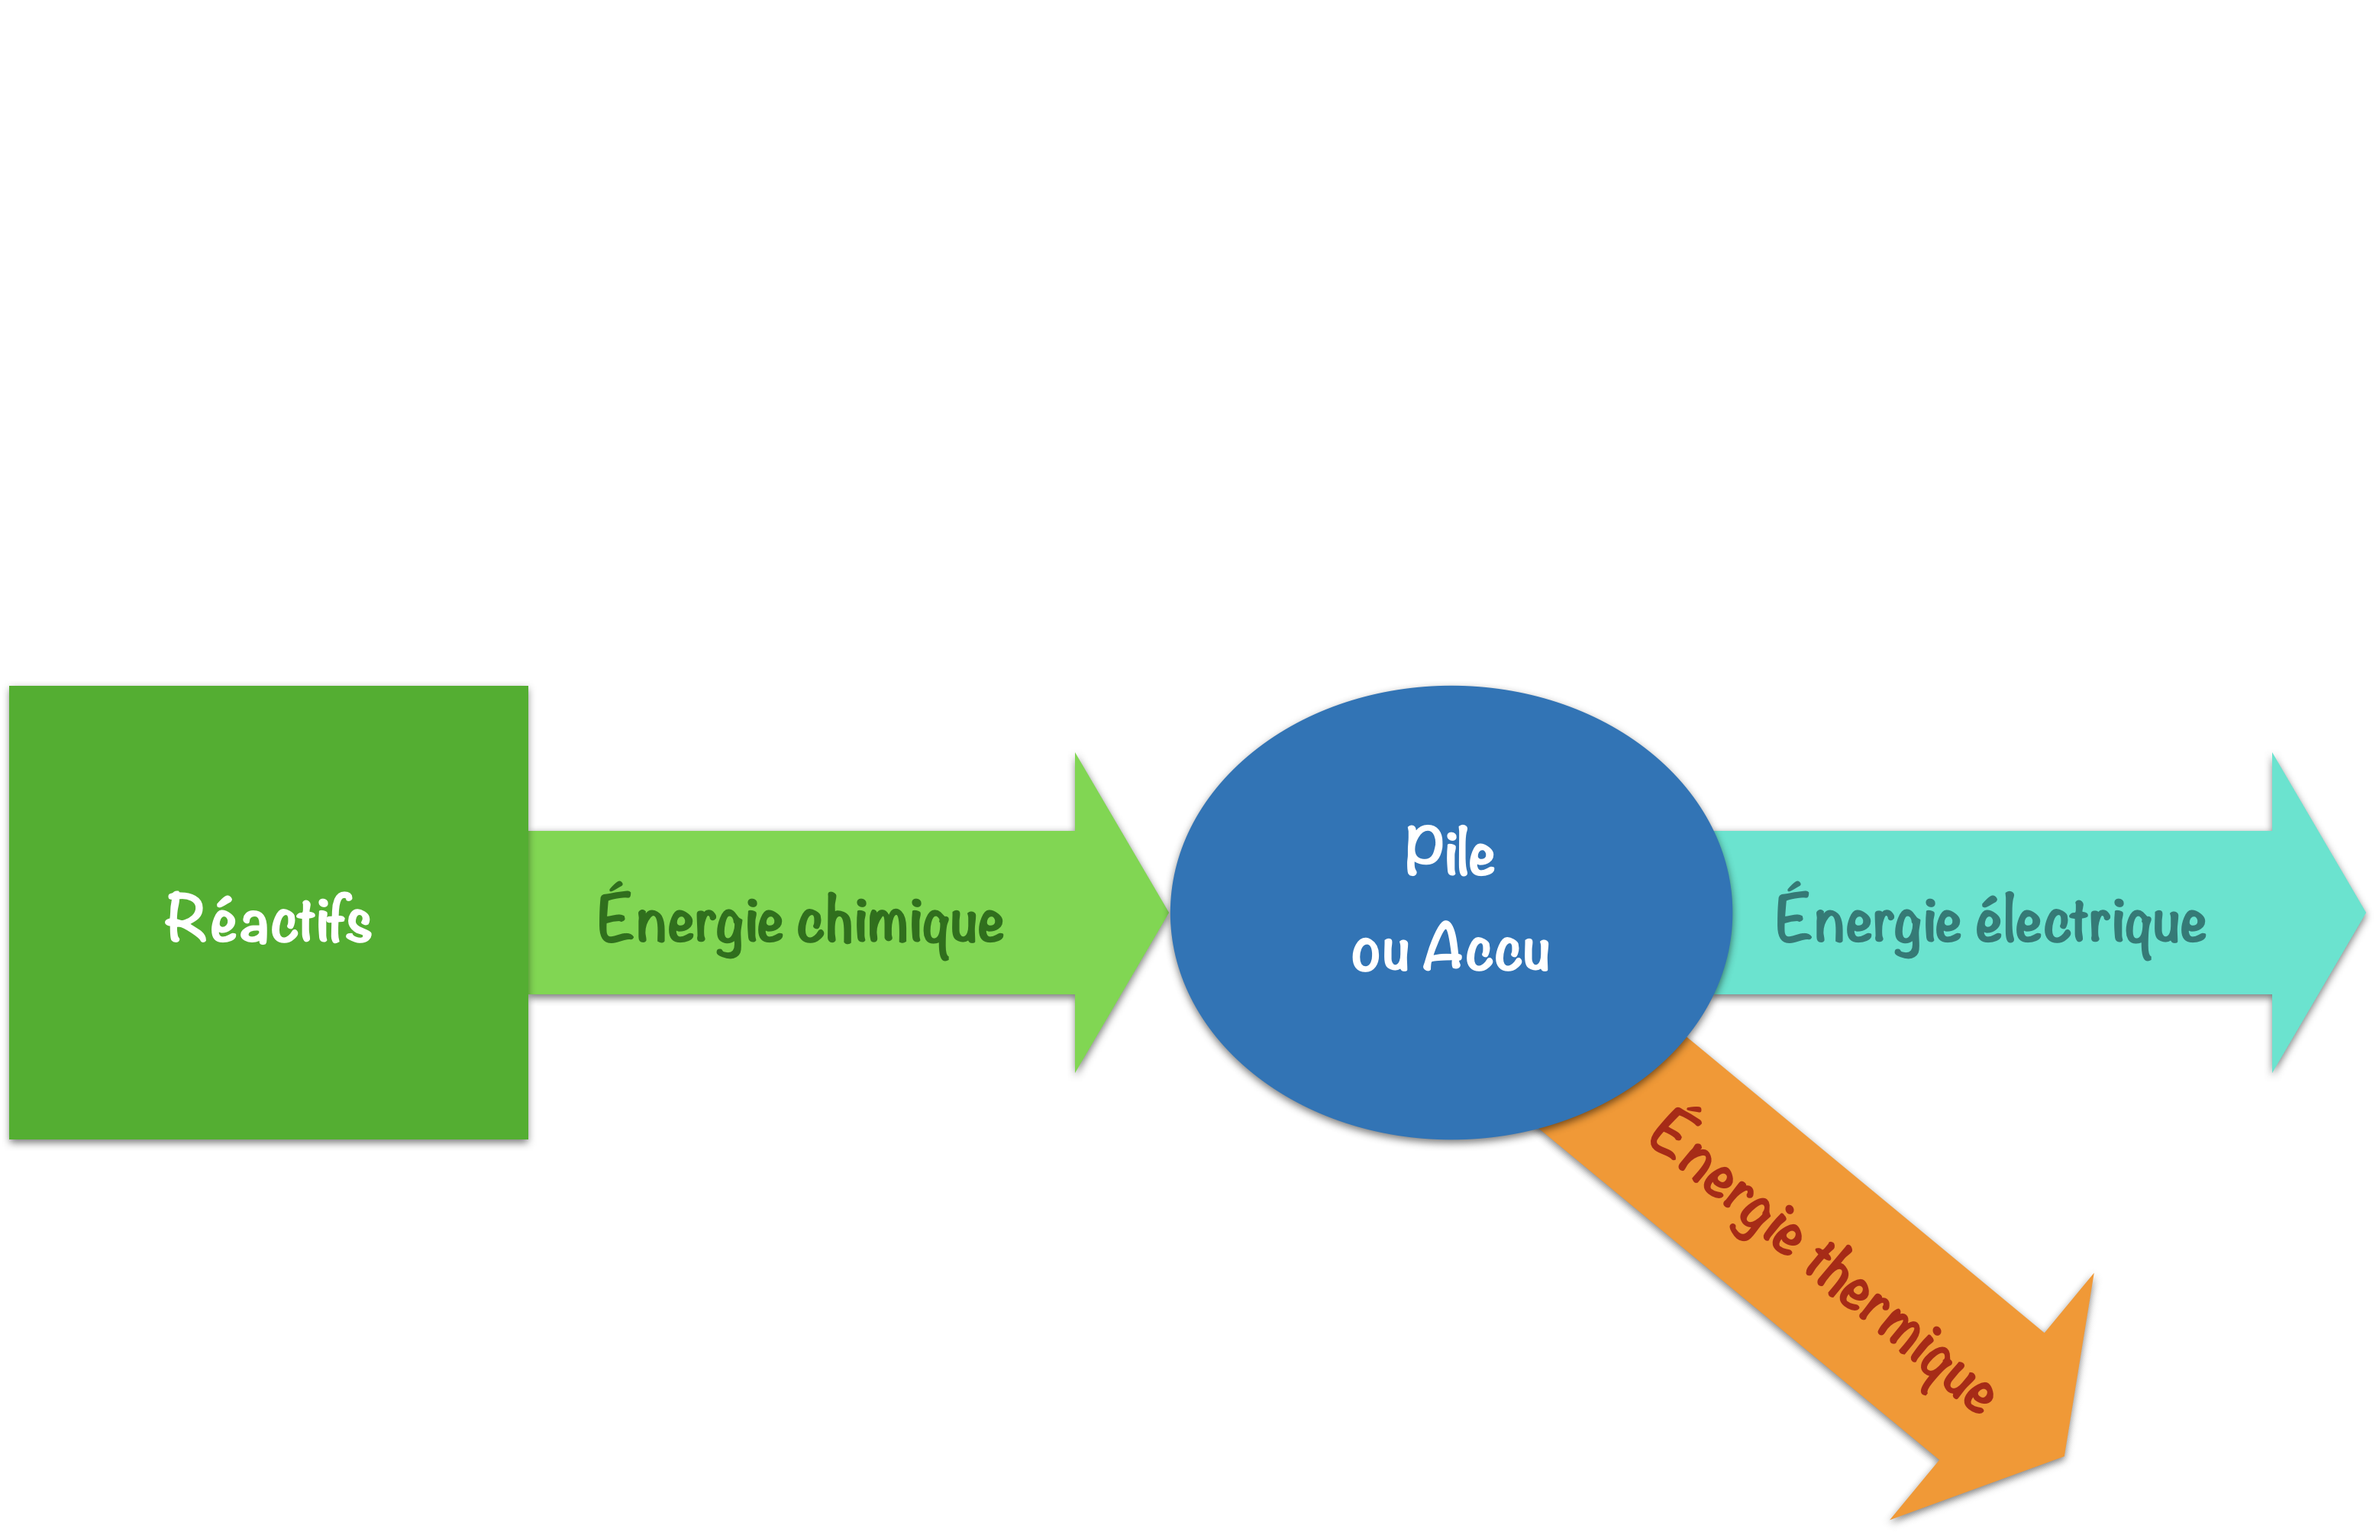
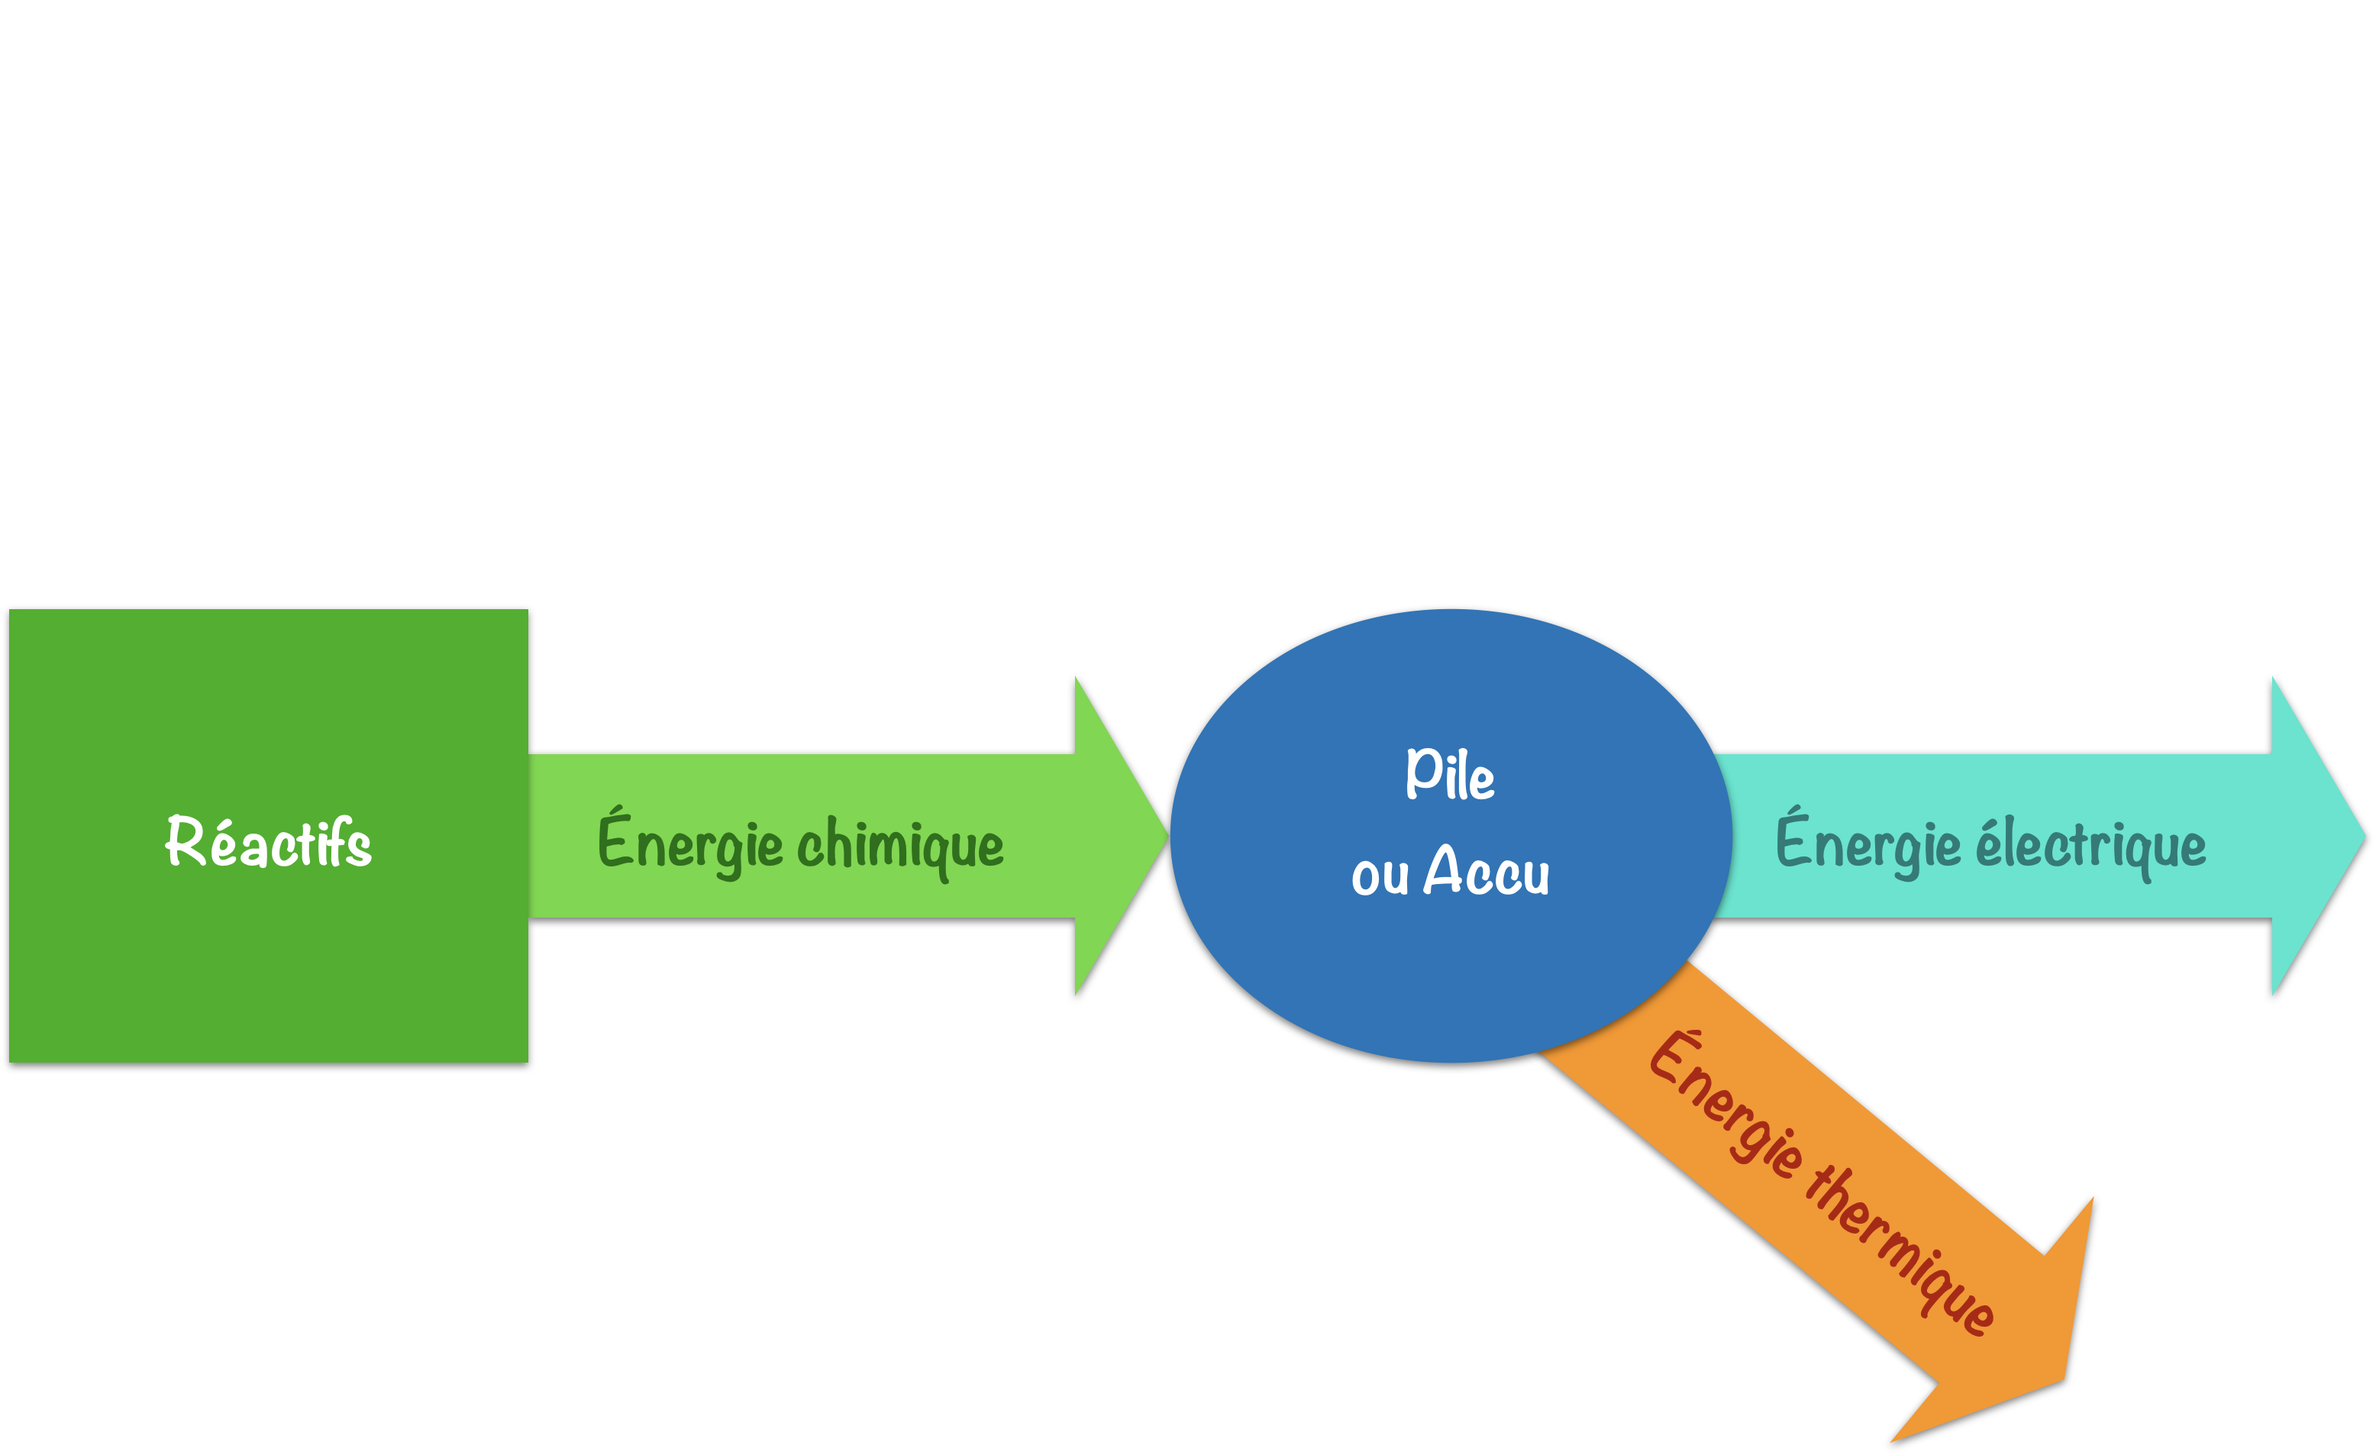
-

diff --git a/tsti/piles/index.html b/tsti/piles/index.html
@@ -36,7 +36,7 @@ btn.addEventListener('click', () => {
       data-background-size="contain"
       data-background-transition="concave">
 <p>Les piles et les accumulateurs<br>sont des <strong>générateurs électrochimiques</strong>.</p>
-<p><br><br><br><br></p>
+<p><br><br><br><br><br><br></p>
 </section><section>
 <p>Piles et accus délivrent<br>
 <strong>un courant et une tension continus</strong>.
